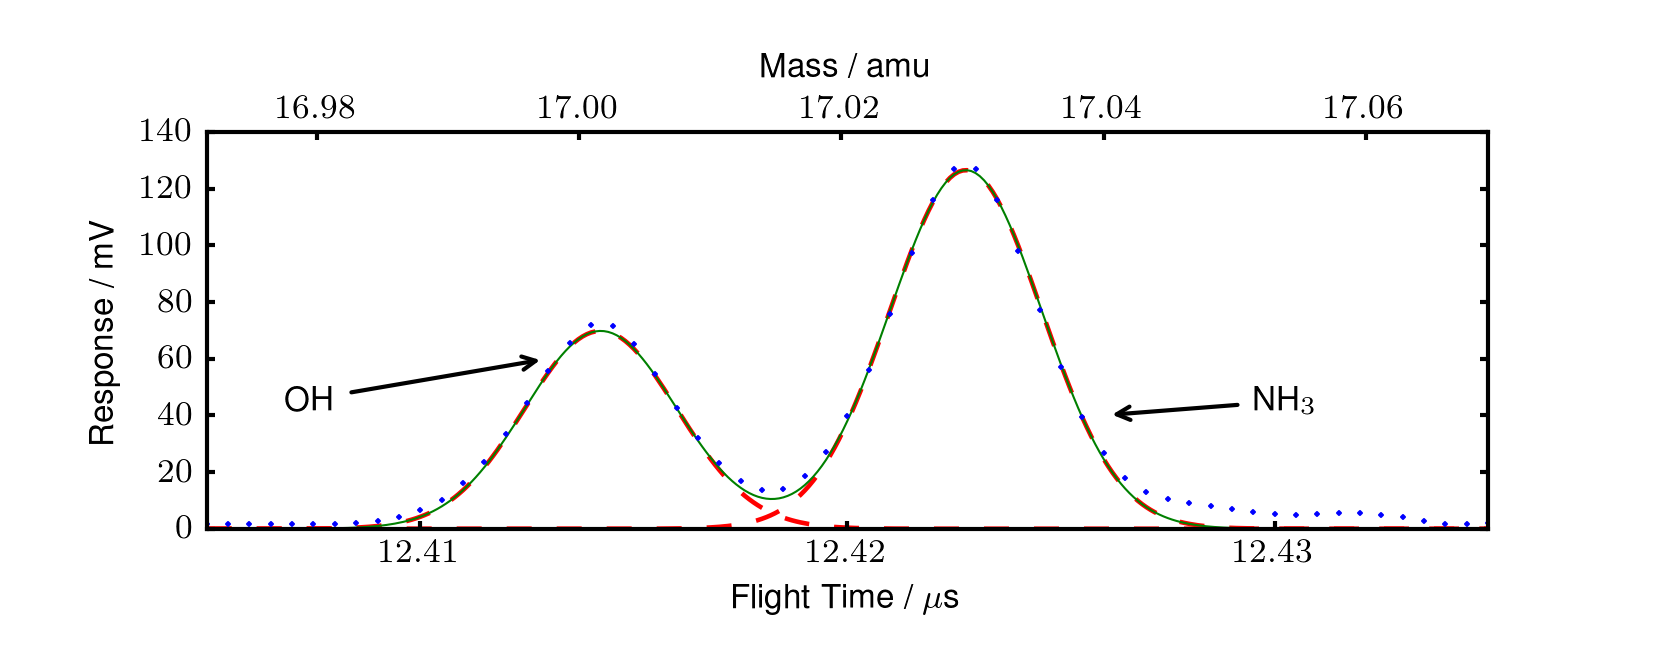
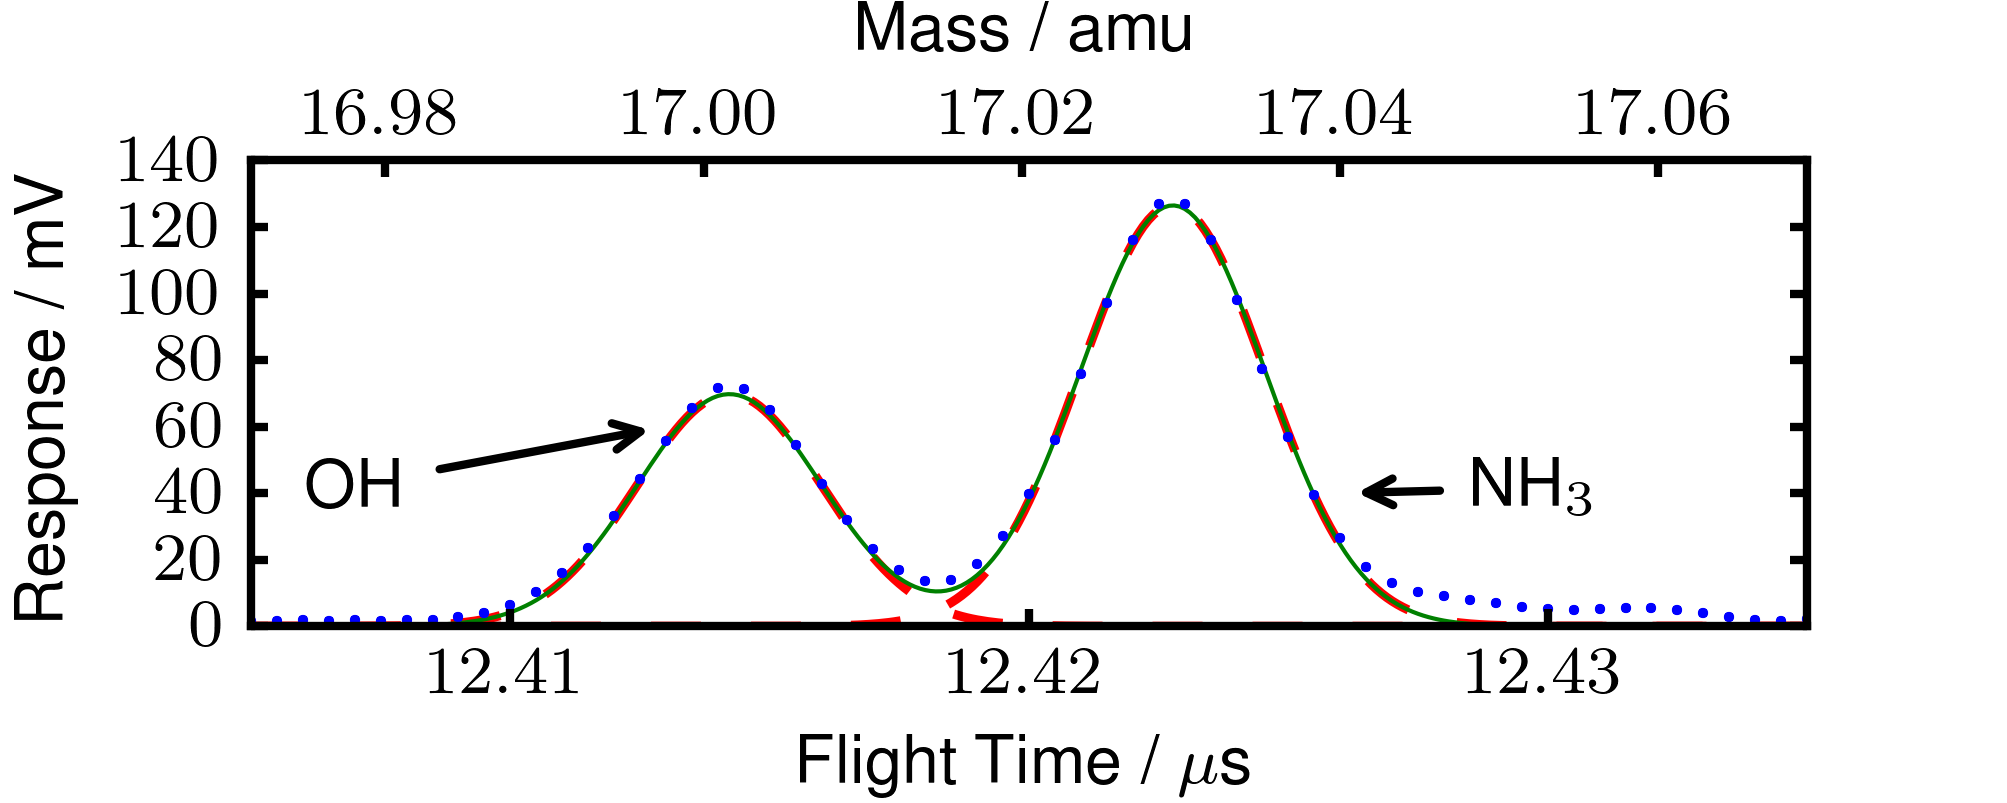
Changed figure sizes

diff --git a/python_figures/dynamic_range.py b/python_figures/dynamic_range.py
@@ -19,7 +19,7 @@ except:
 cursor = db.cursor()
 
 fig = plt.figure()
-fig.subplots_adjust(bottom=0.1) # Make room for x-label
+fig.subplots_adjust(bottom=0.2) # Make room for x-label
 fig.subplots_adjust(top=0.9) # Make room for extra x-label
 fig.subplots_adjust(wspace=0.25)
 fig.subplots_adjust(hspace=0.25)
@@ -47,8 +47,8 @@ x_ticks.append([12.767,12.777,12.787])
 x_ticks.append([4.377,4.387,4.397])
 x_ticks.append([16.962,16.972,16.982])
 y_ticks.append([100,200,300,400])
-y_ticks.append([5,10,15,20])
-y_ticks.append([0.2,0.4,0.6,0.8])
+y_ticks.append([5,10,15])
+y_ticks.append([0.2,0.4,0.6])
 
 fit = []
 

diff --git a/python_figures/ammonia_OH_gauss_fit.py b/python_figures/ammonia_OH_gauss_fit.py
@@ -24,7 +24,7 @@ except:
 cursor = db.cursor()
 
 fig = plt.figure()
-fig.subplots_adjust(bottom=0.2) # Make room for x-label
+fig.subplots_adjust(bottom=0.22) # Make room for x-label
 fig.subplots_adjust(top=0.8) # Make room for extra x-label
 ratio = 0.4                     # This figure should be very wide to span two columns
 fig_width = 8.5
@@ -114,4 +114,4 @@ axis3.ticklabel_format(useOffset=False)
 
 #plt.tight_layout()
 #plt.show()
-plt.savefig('../ammonia_OH_gauss_fit.png',dpi=300)
+plt.savefig('../ammonia_OH_gauss_fit.png',dpi=600)

diff --git a/python_figures/tof_raw.py b/python_figures/tof_raw.py
@@ -41,7 +41,7 @@ arrow = dict(facecolor='black',arrowstyle='->')
 font = 8
 
 ratio = 0.4                     # This figure should be very wide to span two columns
-fig_width = 16
+fig_width = 17
 fig_width = fig_width /2.54     # width in cm converted to inches
 fig_height = fig_width*ratio
 fig.set_size_inches(fig_width,fig_height)
